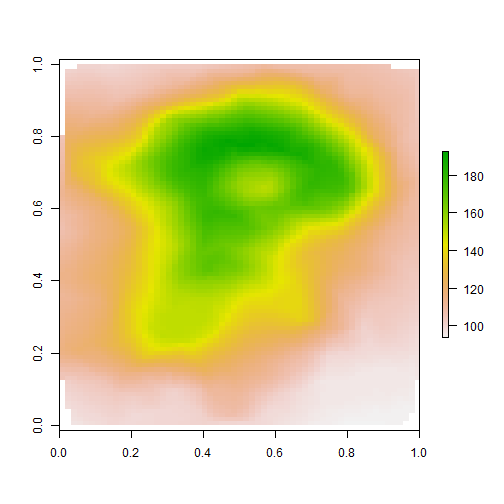
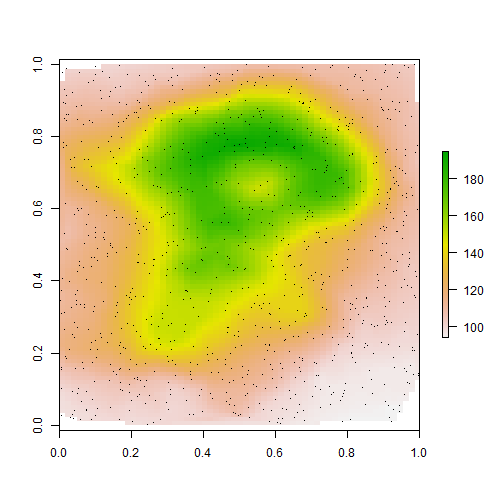
more obvious triangles

diff --git a/xyztrisurf.md b/xyztrisurf.md
@@ -86,18 +86,21 @@ grid <- raster(volcano) * 0
 trigrid <- trifun(xy, z, grid)
 
 plot(trigrid)
+points(xy, pch =".")
 ```
 
 ![plot of chunk unnamed-chunk-3](figure/unnamed-chunk-3-1.png) 
 
 ## Run with very few points
 
-We can see the triangles. 
+Carefully, keep points near the corners. We can see the triangles. 
 
 
 
 ```r
-xy0 <- xy[sample(nrow(xy), 15), ]
+corners <- xyFromCell(r, c(1, ncol(r), ncell(r) - ncol(r) + 1, ncell(r)))
+xy0 <- rbind(xy[sample(nrow(xy), 25), ], corners)
+xy0 <- xy0[!duplicated(xy0), ]
 z0 <- extract(r, xy0, method = "bilinear")
 trigrid0 <- trifun(xy0, z0, grid)
 
